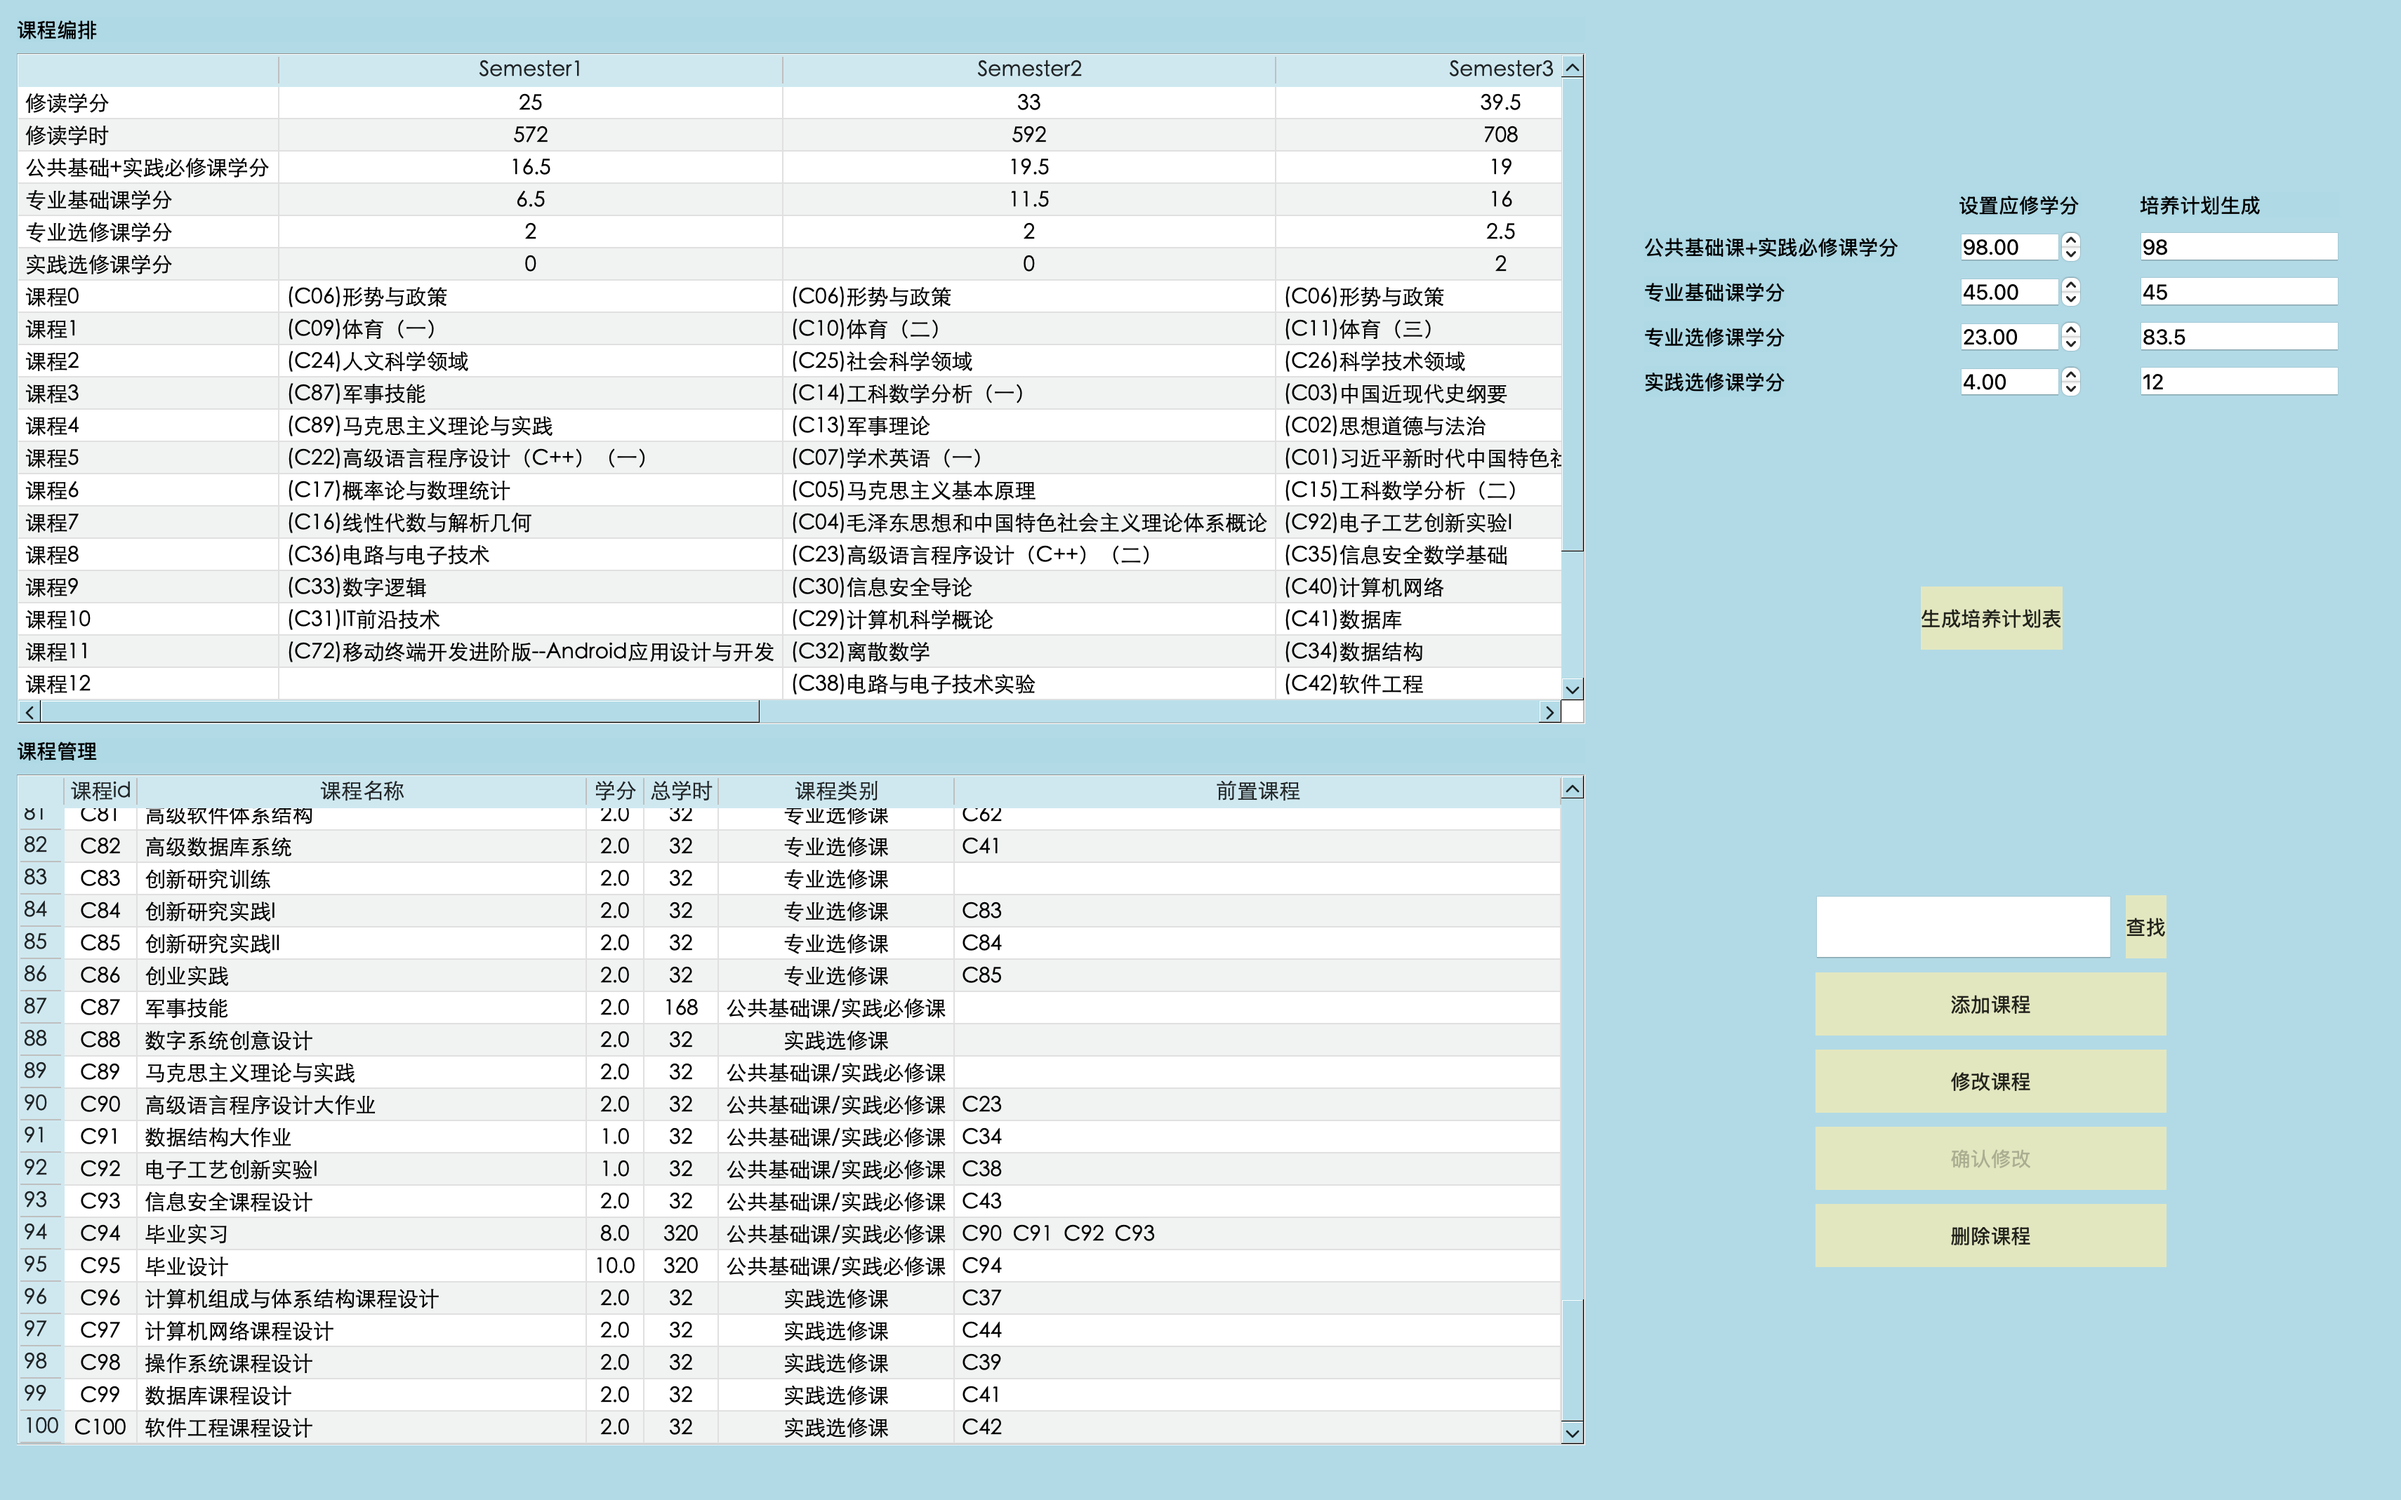
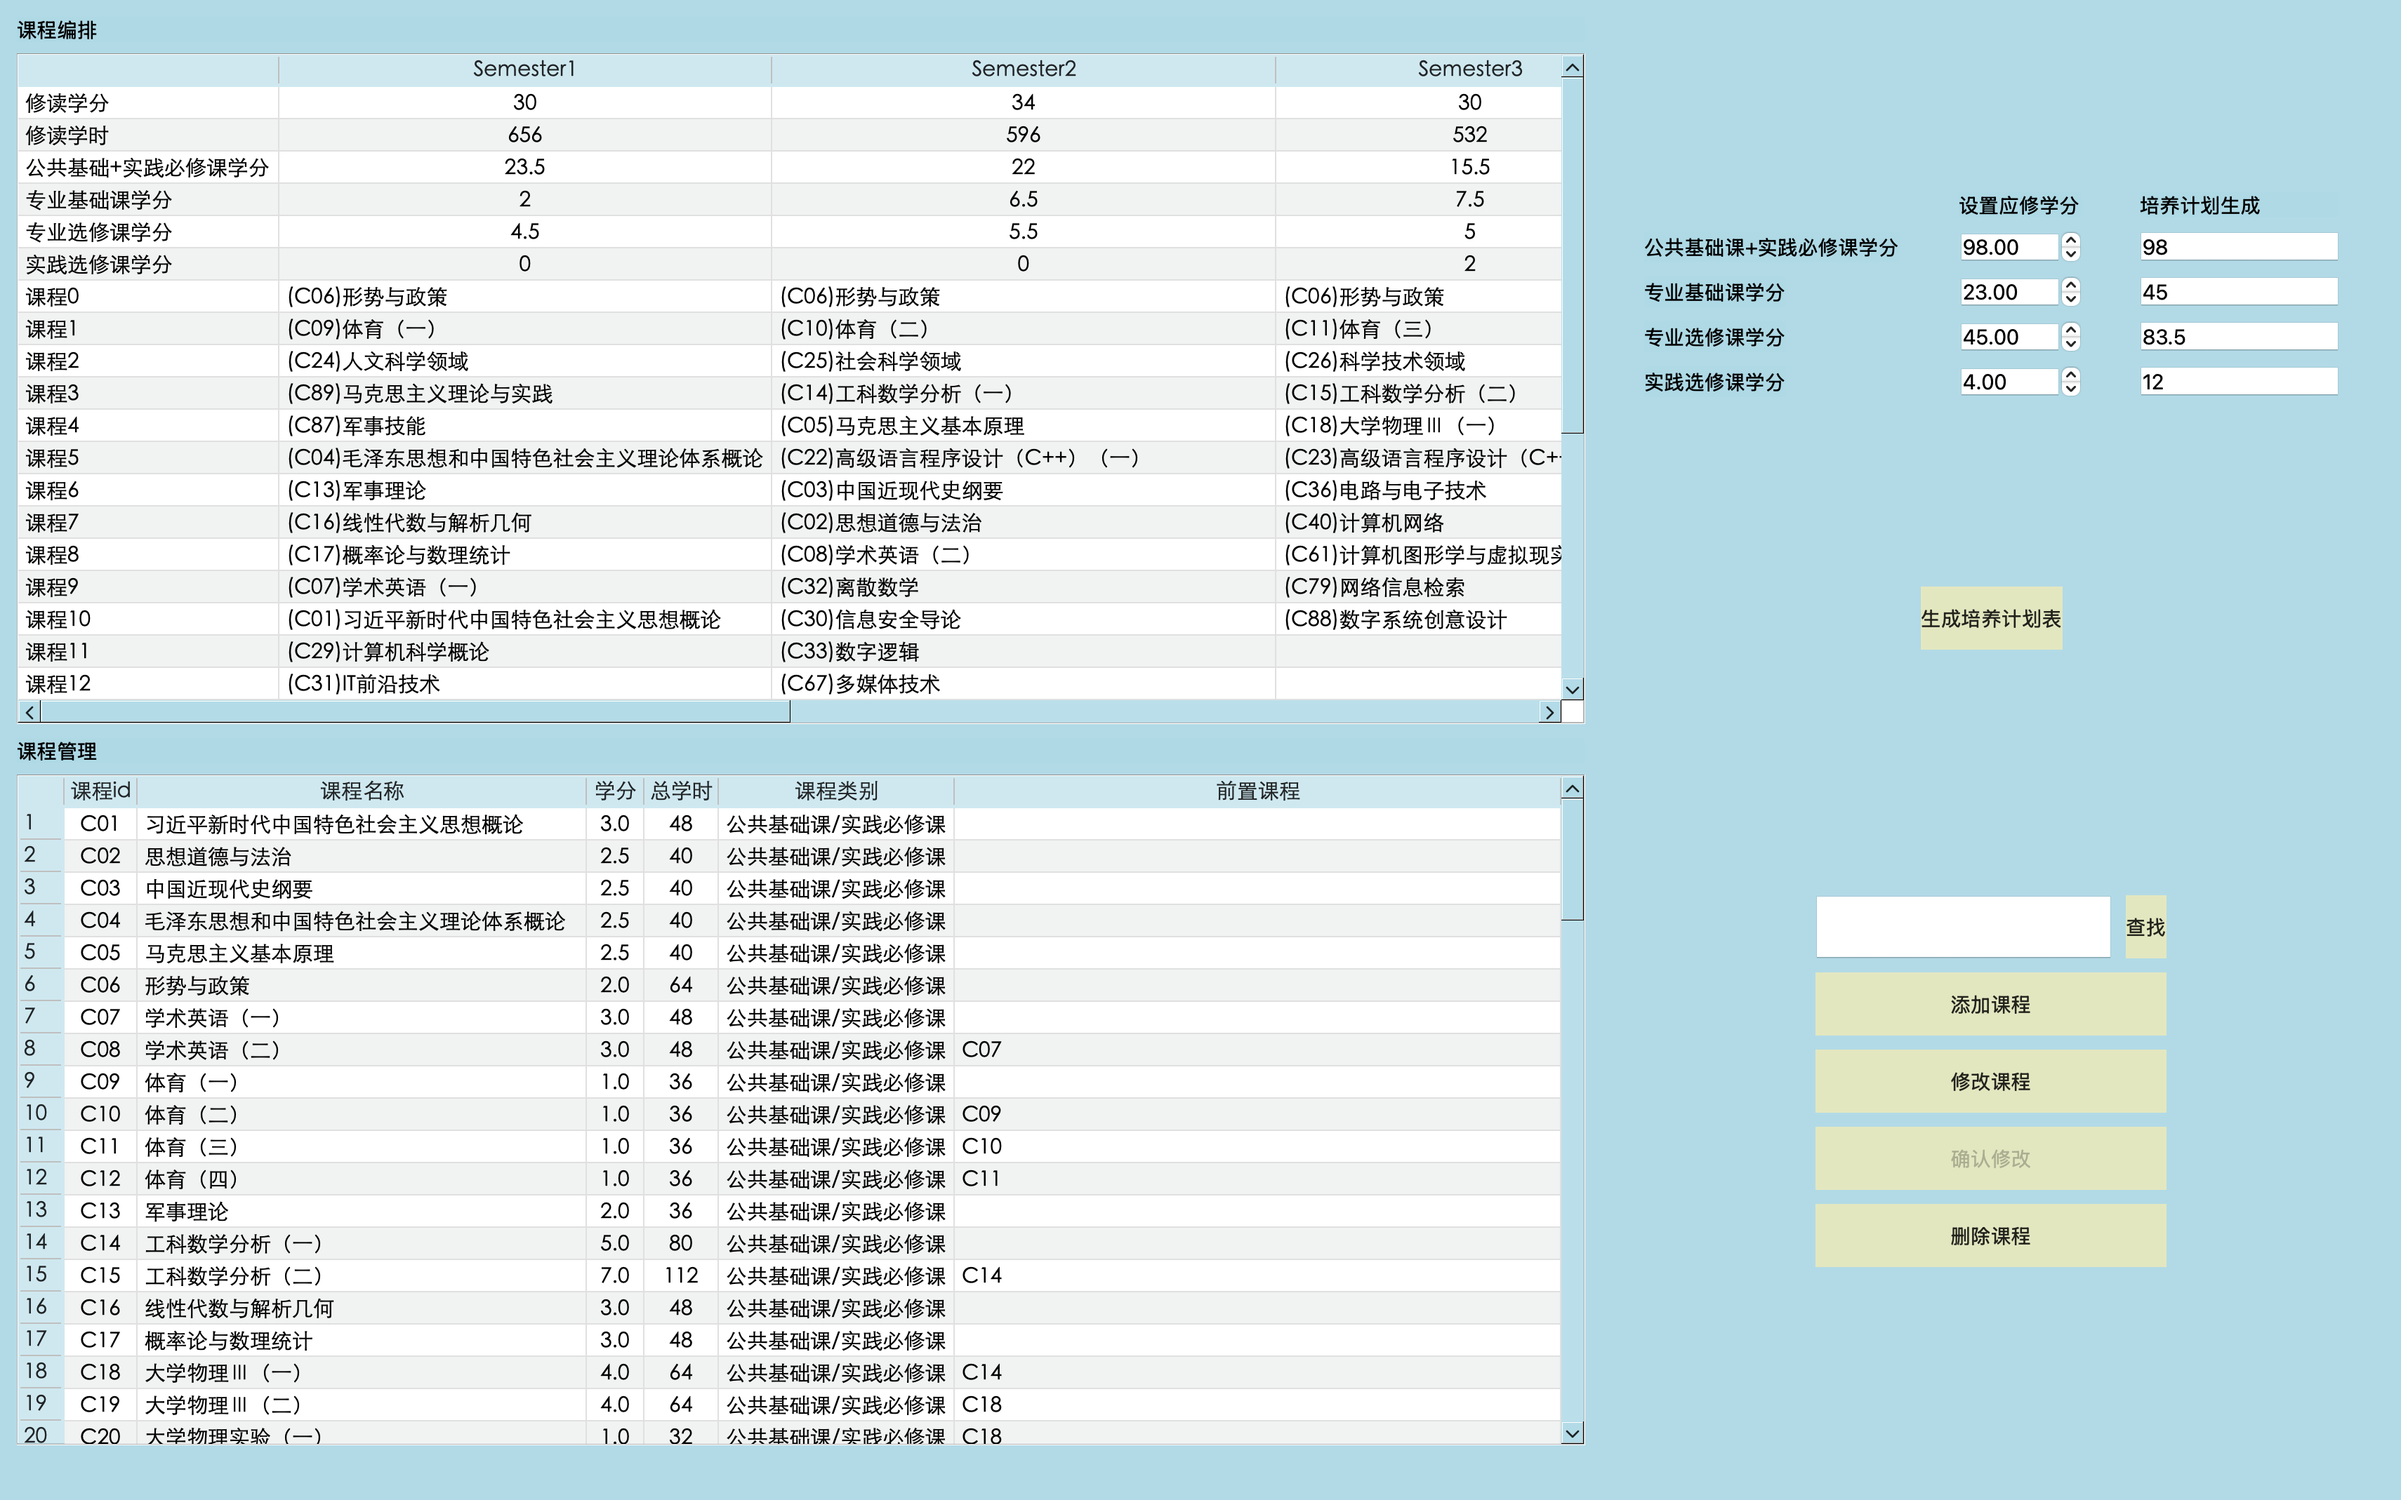
增加课程依赖冲突提示

diff --git a/mainwindow.cpp b/mainwindow.cpp
@@ -3,6 +3,7 @@
 #include "avgassign.h"
 #include "Course.h"
 #include <vector>
+#include <QDebug>
 
 using namespace std;
 
@@ -11,6 +12,8 @@ MainWindow::MainWindow(QWidget *parent)
     , ui(new Ui::MainWindow)
 {
     ui->setupUi(this);
+    preassignedIDs = {"C09", "C10", "C11", "C12", "C24", "C25", "C26", "C27", "C28", "C94", "C95"};
+
     ui->gridLayout_5->setColumnStretch(0, 2);
     ui->gridLayout_5->setColumnStretch(1, 1);
 
@@ -36,6 +39,13 @@ MainWindow::MainWindow(QWidget *parent)
     ui->needCredit3->setValue(45);
     ui->needCredit2->setValue(23);
     ui->needCredit4->setValue(4);
+
+    qDebug() << "Default values:"
+             << ui->needCredit1->value()
+             << ui->needCredit2->value()
+             << ui->needCredit3->value()
+             << ui->needCredit4->value();
+
 
     // 显示学分设为只读
     ui->credit1->setReadOnly(true);
@@ -135,6 +145,14 @@ void MainWindow::loadtxtIntoTable(const QString& filename)
 
         appendOneRow(CID, Cname, credit, hours, category, prereqList);
 
+        // 设置只读（如果是预分配课程）
+        if (preassignedIDs.contains(CID)) {
+            for (int col = 0; col < ui->coursesTable->columnCount(); ++col) {
+                QTableWidgetItem* item = ui->coursesTable->item(ui->coursesTable->rowCount() - 1, col);
+                if (item)
+                    item->setFlags(item->flags() & ~Qt::ItemIsEditable);
+            }
+        }
     }
 }
 
@@ -511,6 +529,12 @@ void MainWindow::on_deleteCourse_clicked()
     // 获取课程ID
     QString courseId = ui->coursesTable->item(row, 0)->text();
     courseIDs.remove(courseId);
+
+    // 判断要删除的课程是否为预分配课程
+    if (preassignedIDs.contains(courseId)) {
+        QMessageBox::information(this, "提示", "该课程为固定课程，无法删除。");
+        return;
+    }
 
     // 确认是否删除
     QMessageBox::StandardButton reply;

diff --git a/mainwindow.h b/mainwindow.h
@@ -32,6 +32,7 @@ private:
     QString filename = "/Users/cynthia/projects/QtProject/TrainingPlan/courses.txt";
     QString filepath = "/Users/cynthia/projects/QtProject/TrainingPlan/semesterCourses.txt";
     QSet<QString> courseIDs;
+    QSet<QString> preassignedIDs;  // 预设课程 ID
 
 public:
     void appendOneRow(QString CID, QString Cname, double credit, int hours, int category, QString prereq);
